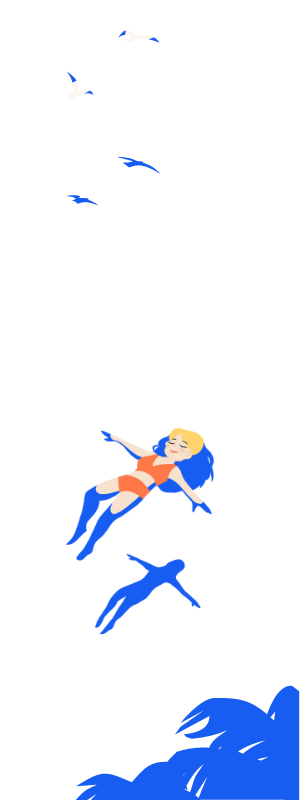
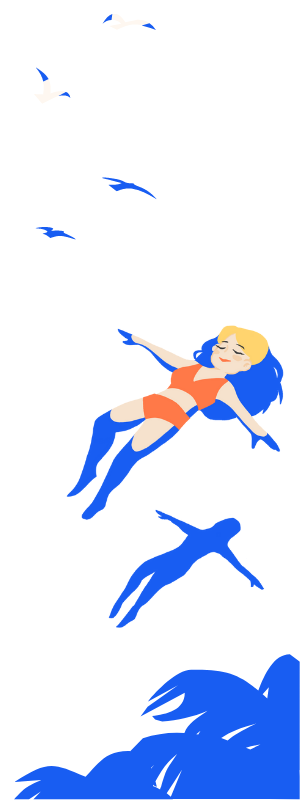
flex boxed the youtube description and pics and added youtube videos

diff --git a/static/homepage.html b/static/homepage.html
@@ -33,8 +33,10 @@
 
   <ul>
     <li class="list-item nav__list-icon"><a href="https://linkedin.com"><i class="fab fa-linkedin"></i></a></li>
-    <li class="list-item nav__list-icon"><a href="https://www.youtube.com/channel/UCUwsgtUDzU2Wx6bJzIQBWMw"><i class="fab fa-youtube"></i></a></li>
-    <li class="list-item nav__list-icon"><a href="https://www.instagram.com/ok_ko_twin/"><i class="fab fa-instagram"></i></a></li>
+    <li class="list-item nav__list-icon"><a href="https://www.youtube.com/channel/UCUwsgtUDzU2Wx6bJzIQBWMw"><i
+          class="fab fa-youtube"></i></a></li>
+    <li class="list-item nav__list-icon"><a href="https://www.instagram.com/ok_ko_twin/"><i
+          class="fab fa-instagram"></i></a></li>
   </ul>
 </nav>
 
@@ -60,67 +62,92 @@
   </div>
 
   <!------------------------------ about --------------------------->
-  
+
   <section id="about" class="background_white">
 
-  <div class="row">
-    <img class="avatar" src="images/olivia.png" alt="olivia">
-    <section class="starter-text">
+    <div class="row">
+      <img class="avatar" src="images/olivia.png" alt="olivia">
+      <section class="starter-text">
+        <div>
+          <span class="big-title big-title--yellow">
+            Olivia Finan
+          </span>
+        </div>
+
+        <div>
+          <p class="intro">
+            Lorem ipsum dolor sit amet, consectetur adipiscing elit, sed do eiusmod tempor incididunt ut labore et
+            dolore magna aliqua. Ut enim ad minim veniam. </span>
+          </p>
+        </div>
+      </section>
+    </div>
+
+    <div class="row extra-padding">
+      <section class="starter-text">
+        <div>
+          <span class="big-title">
+            Kira Finan
+          </span>
+        </div>
+
+        <div>
+          <p class="intro">
+            Lorem ipsum dolor sit amet, consectetur adipiscing elit, sed do eiusmod tempor incididunt ut labore et
+            dolore magna aliqua. Ut enim ad minim veniam. </p>
+        </div>
+      </section>
+      <img class="avatar" src="images/kira.png" alt="kira">
+  </section>
+
+  <!------------------------------ adventures --------------------------->
+
+  <section id="adventures" class="background_ocean row">
+
+    <img src="images/floating-top.png" alt="floating-top">
+
+    <div class="youtube-description-contianer row">
       <div>
-        <span class="big-title big-title--yellow">
-          Olivia Finan
+        <span class="big-title--white">
+          Hi Everyone!
         </span>
       </div>
+      
+      <p class="youtube-description">
+        We are twins from Germany and the United States. Currently, we are studying for our Master's degrees here in
+        Nuremberg. We started our Youtube channel this year 2021. Our posts include educational (and entertaining)
+        videos about studying and living in Germany. Also, we are avid travelers and we love to share our adventures
+        with you!
+        <br>
+        <br>
+        Tune in on Tuesdays and Fridays for new content, and don’t forget to Like and Subscribe for more adventures!
+        Check out our Instagram for more behind the scenes and extras: okko.adventures
+        <br>
+        Cheers,
+        <br>
+        O & K
+      </p>
+    </div>
 
+    <img src="images/floating-bottom.png" alt="floating-bottom">
+
+  </section>
+
+  <!------------------------------ youtube --------------------------->
+  <section class="youtube-vids">
       <div>
-        <p class="intro">
-          Lorem ipsum dolor sit amet, consectetur adipiscing elit, sed do eiusmod tempor incididunt ut labore et dolore magna aliqua. Ut enim ad minim veniam.        </span>
-        </p>
+        <iframe width="450" height="315" src="https://www.youtube.com/embed/r5LdPzqbzq8" title="YouTube video player" frameborder="0" allow="accelerometer; autoplay; clipboard-write; encrypted-media; gyroscope; picture-in-picture" allowfullscreen></iframe>
+        <iframe width="450" height="315" src="https://www.youtube.com/embed/Koxd33A1aeg" title="YouTube video player" frameborder="0" allow="accelerometer; autoplay; clipboard-write; encrypted-media; gyroscope; picture-in-picture" allowfullscreen></iframe>
+        <iframe width="450" height="315" src="https://www.youtube.com/embed/Nzk1To4SIlY" title="YouTube video player" frameborder="0" allow="accelerometer; autoplay; clipboard-write; encrypted-media; gyroscope; picture-in-picture" allowfullscreen></iframe>
       </div>
-    </section>
-  </div>
-
-  <div class="row extra-padding">
-    <section class="starter-text">
       <div>
-        <span class="big-title">
-        Kira Finan
-        </span>
+        <iframe width="450" height="315" src="https://www.youtube.com/embed/1pUGsrvxUqk" title="YouTube video player" frameborder="0" allow="accelerometer; autoplay; clipboard-write; encrypted-media; gyroscope; picture-in-picture" allowfullscreen></iframe>
+        <iframe width="450" height="315" src="https://www.youtube.com/embed/Q6J5ZXtqBQA" title="YouTube video player" frameborder="0" allow="accelerometer; autoplay; clipboard-write; encrypted-media; gyroscope; picture-in-picture" allowfullscreen></iframe>
+        <iframe width="450" height="315" src="https://www.youtube.com/embed/ojSm-gDdCHU" title="YouTube video player" frameborder="0" allow="accelerometer; autoplay; clipboard-write; encrypted-media; gyroscope; picture-in-picture" allowfullscreen></iframe>
       </div>
+  </section>
 
-      <div>
-        <p class="intro">
-          Lorem ipsum dolor sit amet, consectetur adipiscing elit, sed do eiusmod tempor incididunt ut labore et dolore magna aliqua. Ut enim ad minim veniam.        </p>
-      </div>
-    </section>
-    <img class="avatar" src="images/kira.png" alt="kira">
-</section>
 
-<!------------------------------ adventures --------------------------->
-<section id="adventures" class="background_ocean">
-  <img class="row" src="images/floating-top.png" alt="floating-top">
-
-  <div class="row">
-    <p class="youtube-description-title">
-   Hi Everyone!
-    </p>
-  </div>
-
-  <div class="row">
-    <p class="youtube-description">
-      We are twins from Germany and the United States. Currently, we are studying for our Master's degrees here in Nuremberg. We started our Youtube channel this year 2021. Our posts include educational (and entertaining) videos about studying and living in Germany. Also, we are avid travelers and we love to share our adventures with you! 
-
-      Tune in on Tuesdays and Fridays for new content, and don’t forget to Like and Subscribe for more adventures! Check out our Instagram for more behind the scenes and extras: okko.adventures
-
-      Cheers,
-
-      O & K 
-    </p>
-  </div>
-
-  <img class="row float" src="images/floating-bottom.png" alt="floating-bottom">
-
-</section>
 
 </body>
 

diff --git a/static/styles.css b/static/styles.css
@@ -76,6 +76,12 @@ ul {
     color: #F9B916;
 }
 
+.big-title--white{
+    font-family: 'Caveat', cursive;
+    font-size: 3em;
+    color: white;
+}
+
 .intro {
     font-family: 'Gill Sans', 'Gill Sans MT', Calibri, 'Trebuchet MS', sans-serif;
     font-weight: 500;
@@ -97,13 +103,19 @@ ul {
     background-repeat: no-repeat;
     background-size: cover;
 }
-
+.youtube-description-contianer{
+    display: flex;
+    flex-direction: column;
+    text-align: center;
+}
 .youtube-description{
     color: white;
     font-family: 'Caveat', cursive;
-    width: 30%;
     font-size: 1.5em;
-    line-height: 35px;;
+    line-height: 35px;
+    width: 50%;
+    margin-left: auto;
+    margin-right: auto;
 }
 
 .youtube-description-title{
@@ -111,4 +123,10 @@ ul {
     font-family: 'Caveat', cursive;
     font-size: 3em;
     margin-top: 100px;
+}
+
+.youtube-vids{
+    background-color: white;
+    height: 700px;
+    width: 100%;
 }
